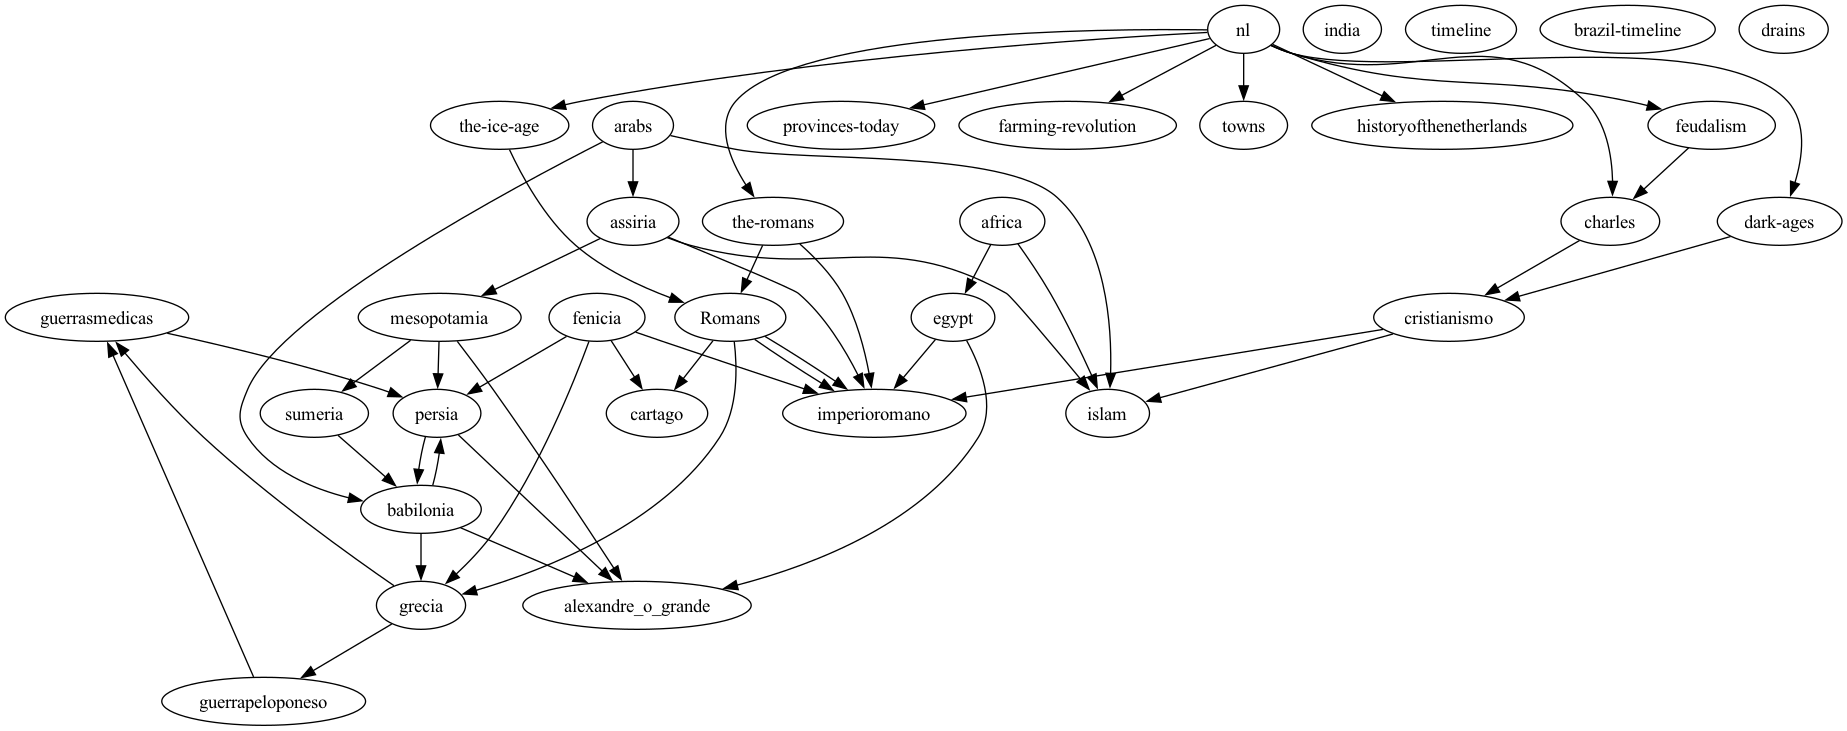
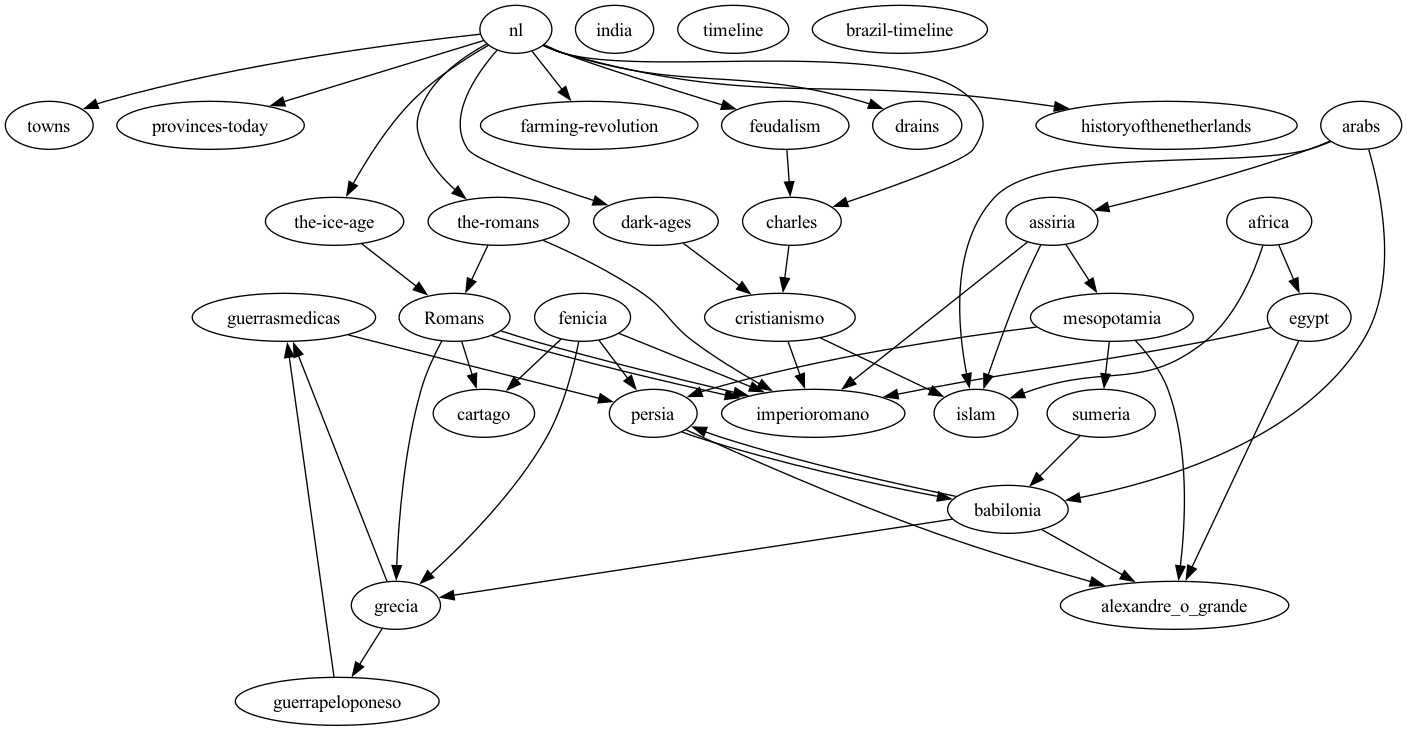
feat: nl, draining the swamps ::by sergio giraldo @ 20241220T1814CET, gpg signed

diff --git a/docs/netherlands/nl.md b/docs/netherlands/nl.md
@@ -10,10 +10,12 @@
 
 [Illuminating the Dark Ages](dark-ages)
 
-[Charles, the Greate](charles)
+[Charles, the Great](charles)
 
 [Welcome to Family Feudalism](feudalism)
 
 [Ploughin' Forward](farming-revolution)
 
-[Gettig Down in Town](towns)
+[Getting Down in Town](towns)
+
+[Draining the Swamp](drains)
